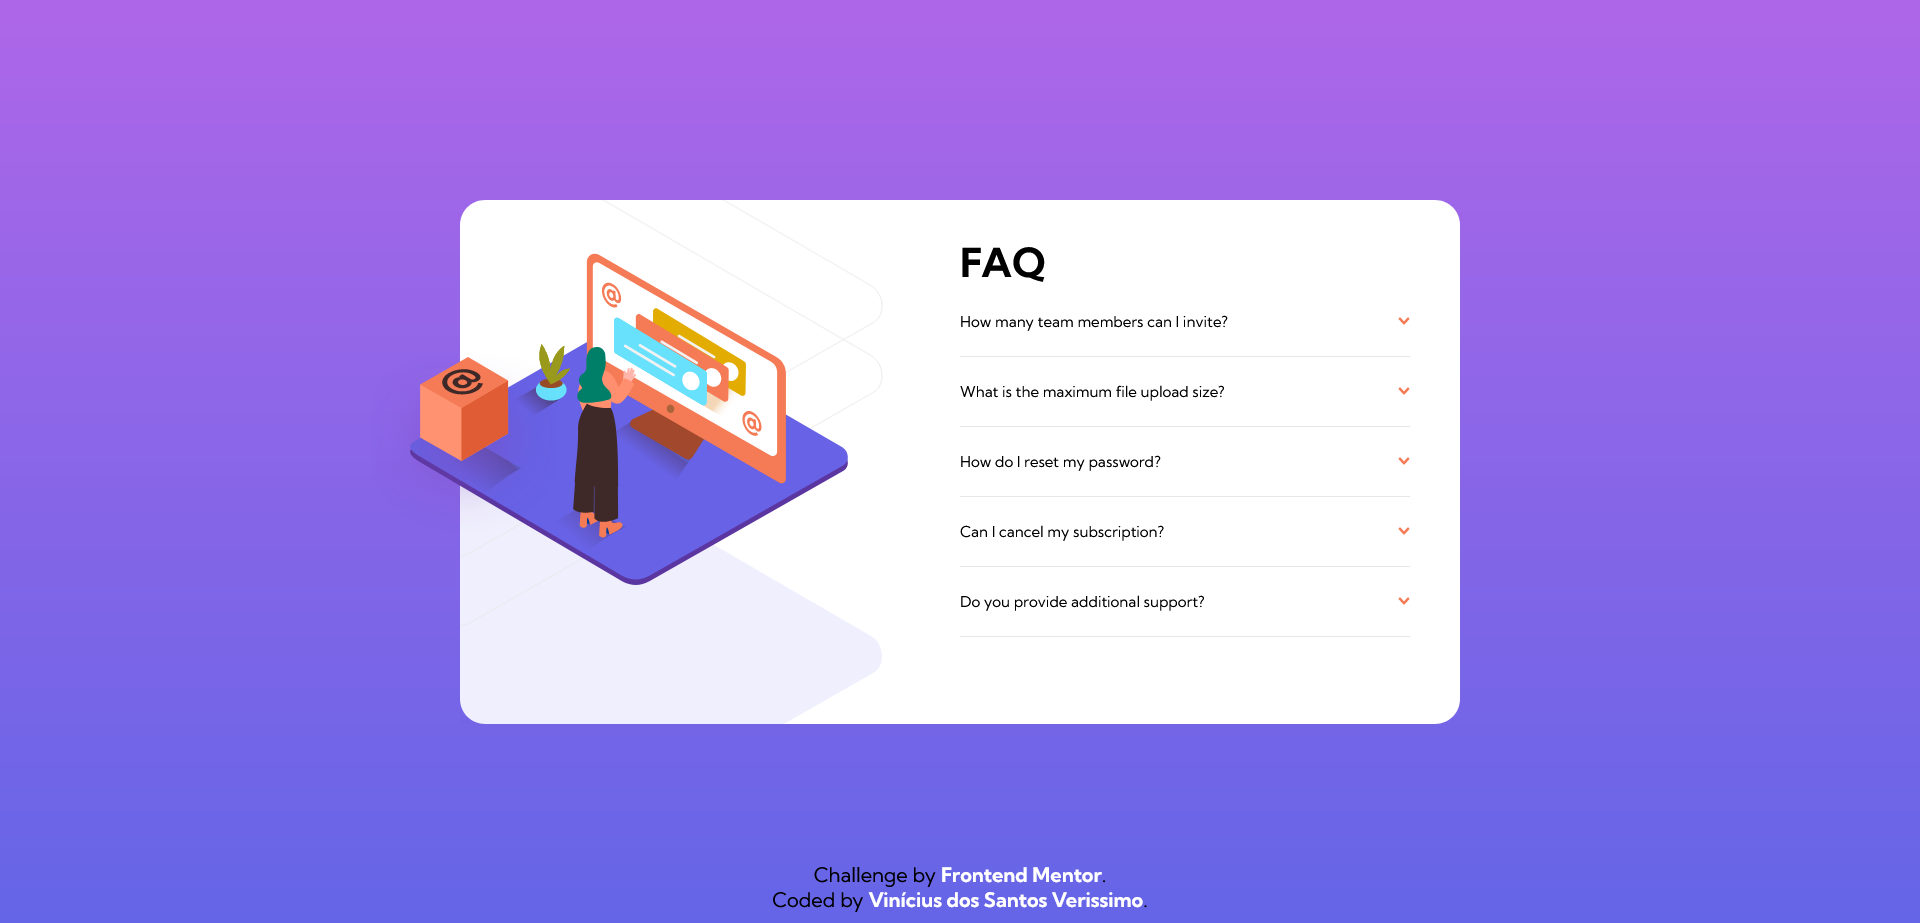
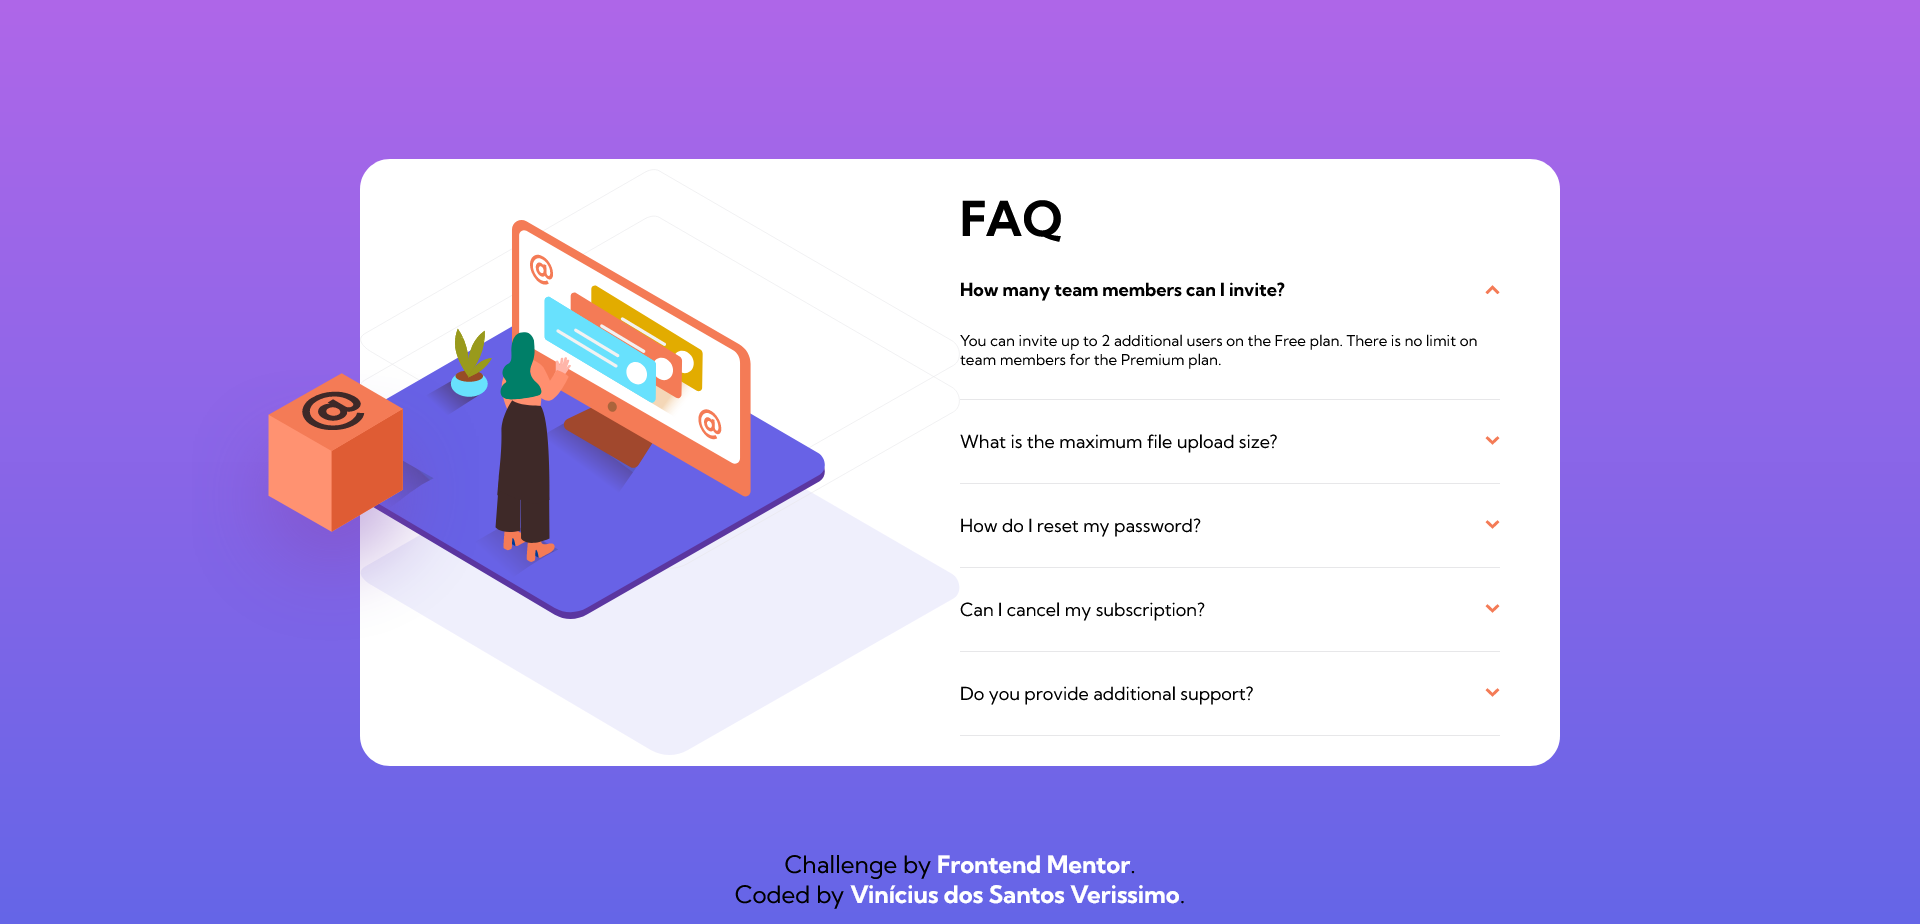
Updated project

diff --git a/index.html b/index.html
@@ -13,53 +13,59 @@
 </head>
 <body>
   <div class="container">
+    <img id="image-2" src="images/illustration-box-desktop.svg" alt="">
     <div class="container-left">
       <img id="image-1" src="images/illustration-woman-online-desktop.svg" alt="">
-      <img id="image-2" src="images/illustration-box-desktop.svg" alt="">
     </div>
     <div class="container-right">
       <h1>FAQ</h1>
+
       <div class="question-answer">
-        <div onclick="showAnswer(1)" class="question" id="qst1">
+        <div class="question">
           <p>How many team members can I invite?</p>
           <img class="arrow" src="images/icon-arrow-down.svg" alt="">
         </div>
-        <p class="answer" id="aswr1">
+        <p class="answer hidden">
           You can invite up to 2 additional users on the Free plan. There is no limit on
           team members for the Premium plan.
         </p>
       </div>
+
       <div class="question-answer">
-        <div onclick="showAnswer(2)" class="question" id="qst2">
+        <div class="question">
           <p>What is the maximum file upload size?</p>
           <img class="arrow" src="images/icon-arrow-down.svg" alt="">
         </div>
-        <p class="answer" id="aswr2">No more than 2GB. All files in your account must fit your allotted storage space.</p>
+        <p class="answer hidden">No more than 2GB. All files in your account must fit your allotted storage space.</p>
       </div>
+
       <div class="question-answer">
-        <div onclick="showAnswer(3)" class="question" id="qst3">
+        <div class="question">
           <p>How do I reset my password?</p>
           <img class="arrow" src="images/icon-arrow-down.svg" alt="">
         </div>
-        <p class="answer" id="aswr3">
+        <p class="answer hidden">
           Click “Forgot password” from the login page or “Change password” from your profile page.
           A reset link will be emailed to you.
         </p>
+
       </div>
       <div class="question-answer">
-        <div onclick="showAnswer(4)" class="question"  id="qst4">
+        <div class="question">
           <p>Can I cancel my subscription?</p>
           <img class="arrow" src="images/icon-arrow-down.svg" alt="">
         </div>
-        <p class="answer" id="aswr4">Yes! Send us a message and we’ll process your request no questions asked.</p>
+        <p class="answer hidden">Yes! Send us a message and we’ll process your request no questions asked.</p>
       </div>
+
       <div class="question-answer">
-        <div onclick="showAnswer(5)" class="question" id="qst5">
+        <div class="question">
           <p>Do you provide additional support?</p>
           <img class="arrow" src="images/icon-arrow-down.svg" alt="">
         </div>
-        <p class="answer" id="aswr5">Chat and email support is available 24/7. Phone lines are open during normal business hours.</p>
+        <p class="answer hidden">Chat and email support is available 24/7. Phone lines are open during normal business hours.</p>
       </div>
+      
     </div>
   </div>
 

diff --git a/script.js b/script.js
@@ -1,29 +1,42 @@
-let showing = false;
+// create an array with all the question divs
 
-function showAnswer(number) {
-    console.log(showing);
-    if (showing == true) {
-        let answers = document.querySelectorAll('.answer');
-        console.log(answers);
-        console.log(answers[0]);
-        console.log(answers[1]);
-        console.log(answers[2]);
-        console.log(answers[3]);
-        console.log(answers[4]);
+const questions = document.querySelectorAll('.question');
+
+// add an event listener to each one of them
+
+questions.forEach(item => {
+    item.addEventListener('click', event => {
+
+        // first, select all the answers and make sure they are hidden by adding the class 'hidden' to them
+
+        let allAnswers = document.querySelectorAll('.answer');
+
+        allAnswers.forEach(answerItem => {
+            answerItem.classList.add('hidden');
+        })
+
+        questions.forEach(questionItem => {
+            questionItem.classList.remove('bold');
+        })
+
+        let allArrows = document.querySelectorAll('.arrow');
+
+        allArrows.forEach(arrowItem => {
+            arrowItem.classList.remove('rotated');
+        })
+
+        // after that, select the next element to the clicked element, an answer one
+
+        let answer = item.nextElementSibling;
+
+        // then, toggle the class 'hidden' of it
         
-        for (let i = 0; i < 5;i++) {
-            if (answers[i].classList.contains('.displayBlock') == true) {
-                answers[i].classList.remove('.displayBlock');
-            }
+        if (answer.classList.contains('hidden')) {
+            answer.classList.remove('hidden');
+            item.classList.add('bold');
+            let nextArrow = item.lastElementChild;
+            nextArrow.classList.add('rotated');
         }
-        showing = false;
-    }
-    let query = `#aswr${number}`;
-    document.querySelector(query).classList.toggle('displayBlock');
-    if (showing == false) {
-        showing = true;
-    }
-    else {
-        showing = false;
-    }
-}
+        
+    })
+})

diff --git a/style.css b/style.css
@@ -35,10 +35,11 @@ body p {
 }
 
 .container-left {
-    background-image: url('images/bg-pattern-desktop.svg');
-    background-size: 180%;
+    background-image: url(images/bg-pattern-desktop.svg);
     background-repeat: no-repeat;
-    background-position: right 4vw bottom -20vh;
+    background-size: 100%;
+    background-position: left center;
+    overflow: hidden;
 }
 
 .container-left #image-1 {
@@ -49,16 +50,15 @@ body p {
     height: auto;
 }
 
-.container-left #image-2 {
-    position: relative;
-    top: -35%;
-    right: 18%;
-    width: 150px;
-    height: auto;
+.container #image-2 {
+    position: absolute;
+    left: 10vw;
+    top: 40vh;
+    z-index: 1;
 }
 
 .container-right {
-    padding: 30px 0;
+    padding: 20px 0;
     display: flex;
     flex-direction: column;
     gap: 20px;
@@ -69,6 +69,7 @@ body p {
     margin-right: 40px;
     padding-bottom: 20px;
     border-bottom: 1px solid hsl(240, 5%, 91%);
+    transition: .3s ease;
 }
 
 .question {
@@ -84,16 +85,24 @@ body p {
 
 .arrow {
     cursor: pointer;
+    transition: 300ms ease-in-out;
 }
 
 .answer {
     padding-top: 20px;
-    display: none;
-    
+    font-size: 10px;
 }
 
-.displayBlock {
-    display: block;
+.hidden {
+    display: none;
+}
+
+.bold {
+    font-weight: 700;
+}
+
+.rotated {
+    transform: rotate(180deg);
 }
 
 .attribution {
@@ -115,10 +124,13 @@ body p {
 }
 
 @media (max-width: 850px) {
+
     body {
         height: max-content;
         flex-direction: column;
-        padding: 60px 0;
+        justify-content: space-between;
+        padding-top: 50px;
+        gap: 30px;
     }
 
     .container {
@@ -131,7 +143,6 @@ body p {
         background-position: center;
     }
 
-
     .container-right {
         justify-items: center;
         align-items: center;
@@ -140,5 +151,9 @@ body p {
     .question-answer {
         margin: 0;
         width: 85%;
+    }
+
+    .attribution {
+        position: relative;
     }
 }
